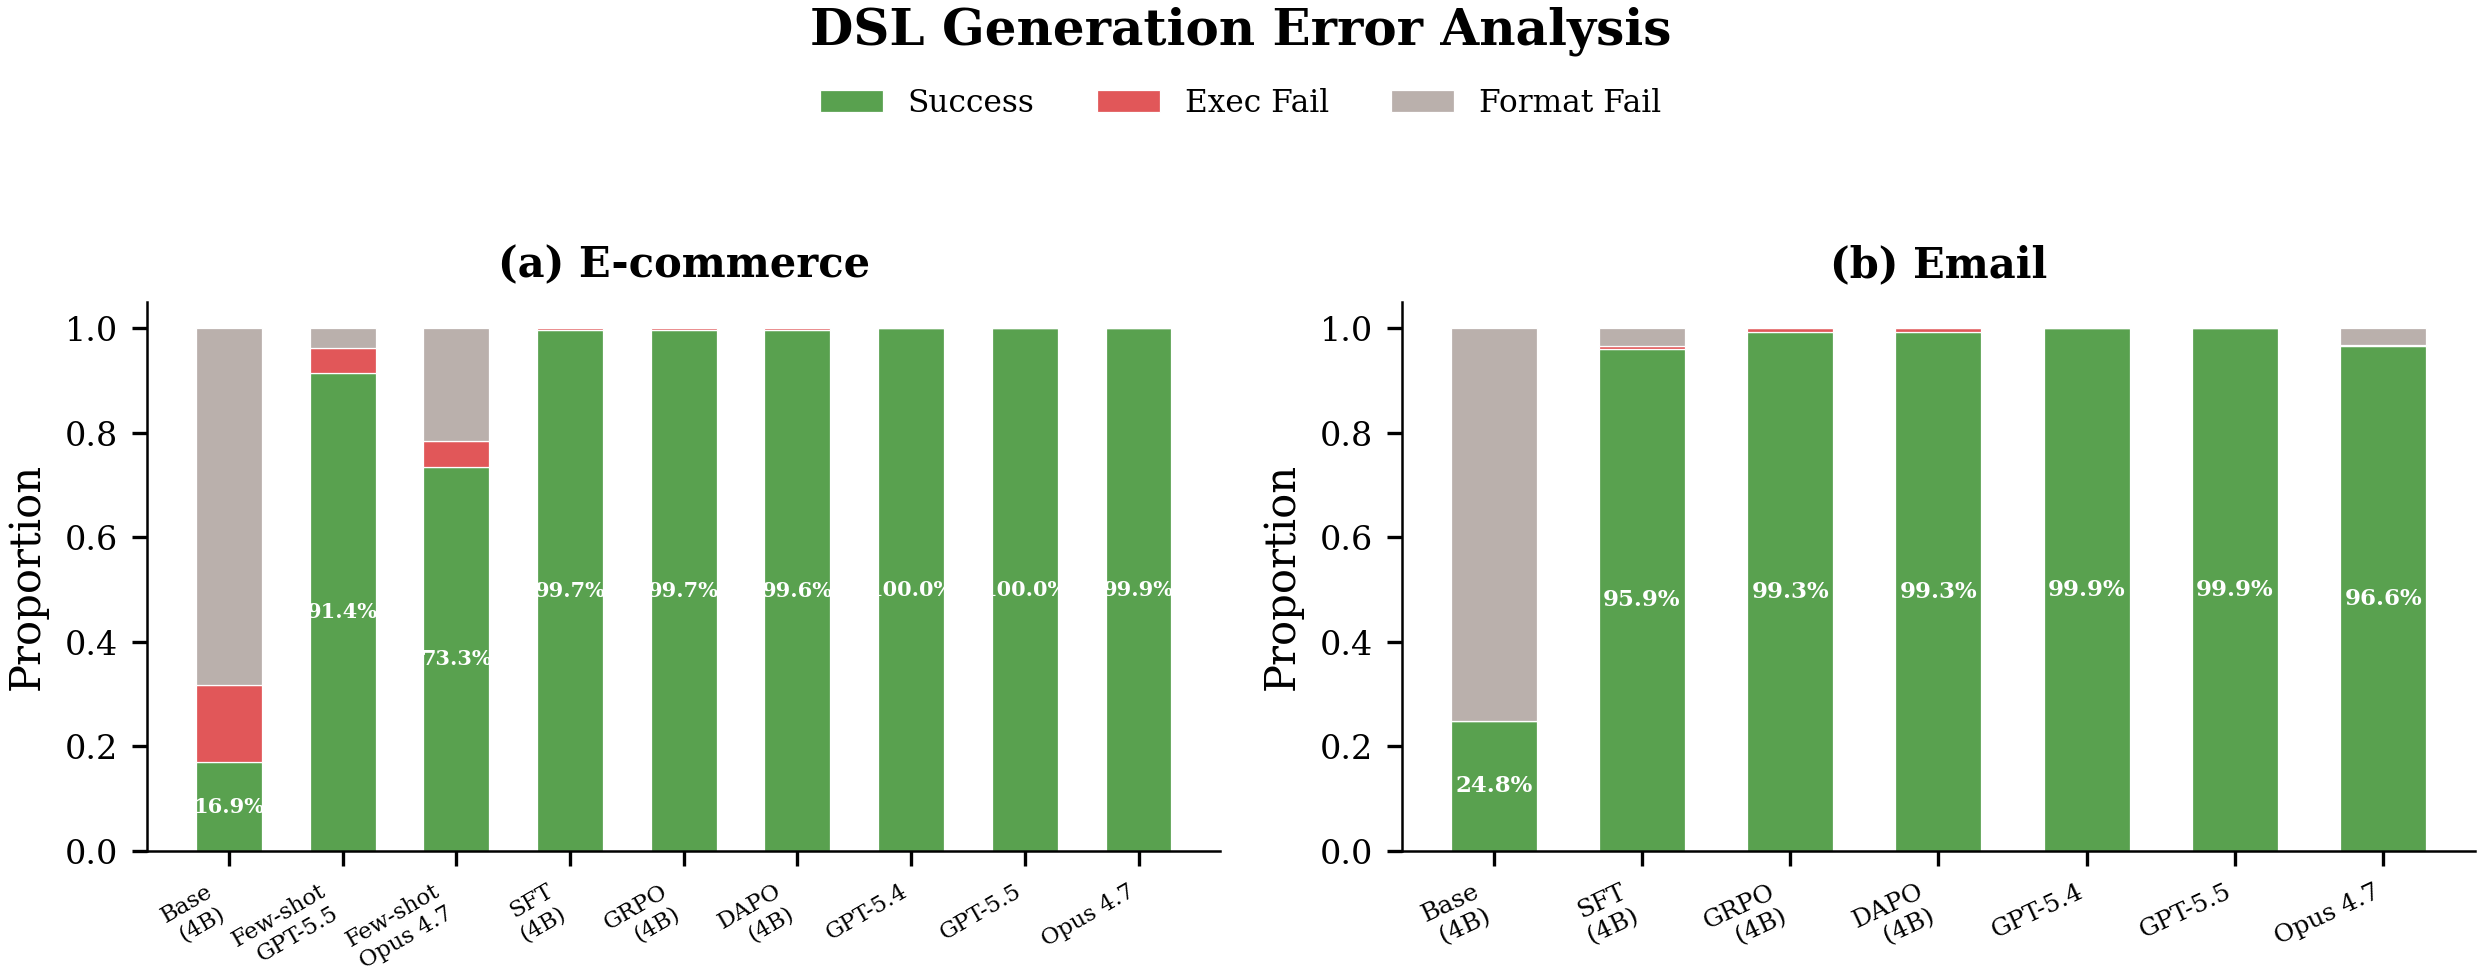
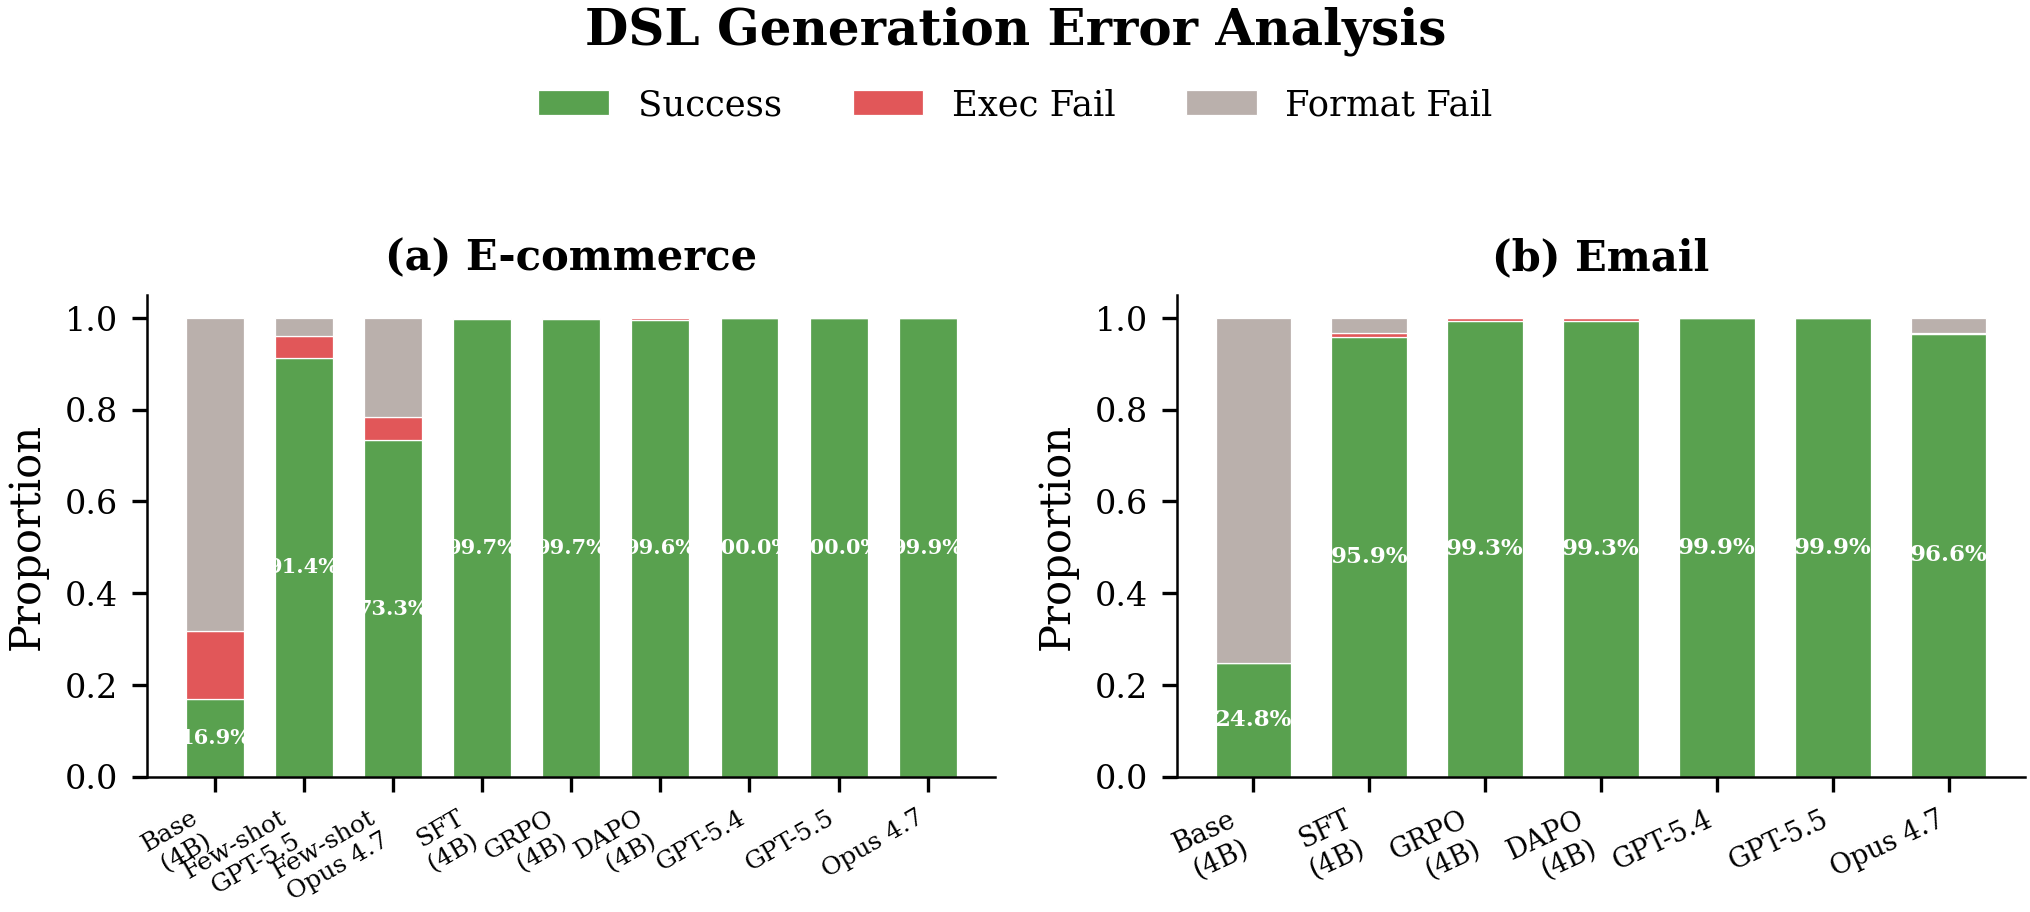
Increase Fig E9 error analysis font size and revert Fig5 paradigm comparison
- E9: axis labels +1pt, subtitles 9→10, suptitle 11→12, legend 7.5→8.5
- Keep bar percentage labels at original size to avoid clipping
- Revert paradigm comparison (Fig5) font sizes (was changed by mistake)

diff --git a/figures/paper/generate_all_figures.py b/figures/paper/generate_all_figures.py
@@ -697,7 +697,7 @@ def fig_e8_model_scaling():
 # Fig 12: E9 — Error Analysis (from 实验结果分析报告)
 # ═══════════════════════════════════════════════════════════════════════════════
 def fig_e9_error_analysis():
-    fig, (ax1, ax2) = plt.subplots(1, 2, figsize=(8.5, 3.0))
+    fig, (ax1, ax2) = plt.subplots(1, 2, figsize=(7.0, 2.8))
 
     c_success = '#59A14F'
     c_exec_fail = '#E15759'
@@ -714,17 +714,17 @@ def fig_e9_error_analysis():
     format_fail_ec = [(t-f)/t for t, f in zip(total_ec, format_ok_ec)]
 
     x = np.arange(len(methods_ec))
-    ax1.bar(x, success_ec, 0.58, label='Success', color=c_success, edgecolor='white', linewidth=0.3)
-    ax1.bar(x, exec_fail_ec, 0.58, bottom=success_ec, label='Exec Fail', color=c_exec_fail, edgecolor='white', linewidth=0.3)
+    ax1.bar(x, success_ec, 0.65, label='Success', color=c_success, edgecolor='white', linewidth=0.3)
+    ax1.bar(x, exec_fail_ec, 0.65, bottom=success_ec, label='Exec Fail', color=c_exec_fail, edgecolor='white', linewidth=0.3)
     bottom2 = [s+e for s, e in zip(success_ec, exec_fail_ec)]
-    ax1.bar(x, format_fail_ec, 0.58, bottom=bottom2, label='Format Fail', color=c_format_fail, edgecolor='white', linewidth=0.3)
+    ax1.bar(x, format_fail_ec, 0.65, bottom=bottom2, label='Format Fail', color=c_format_fail, edgecolor='white', linewidth=0.3)
 
     for i, s in enumerate(success_ec):
         ax1.text(i, s/2, f'{s:.1%}', ha='center', va='center', fontsize=5, fontweight='bold', color='white')
 
     ax1.set_ylabel('Proportion')
     ax1.set_xticks(x)
-    ax1.set_xticklabels(methods_ec, fontsize=5.5, rotation=30, ha='right')
+    ax1.set_xticklabels(methods_ec, fontsize=6, rotation=30, ha='right')
     ax1.set_ylim(0, 1.05)
     ax1.set_title('(a) E-commerce', fontsize=10, fontweight='bold')
 
@@ -739,23 +739,23 @@ def fig_e9_error_analysis():
     format_fail_em = [(t-f)/t for t, f in zip(total_em, format_ok_em)]
 
     x2 = np.arange(len(methods_em))
-    ax2.bar(x2, success_em, 0.58, label='Success', color=c_success, edgecolor='white', linewidth=0.3)
-    ax2.bar(x2, exec_fail_em, 0.58, bottom=success_em, label='Exec Fail', color=c_exec_fail, edgecolor='white', linewidth=0.3)
+    ax2.bar(x2, success_em, 0.65, label='Success', color=c_success, edgecolor='white', linewidth=0.3)
+    ax2.bar(x2, exec_fail_em, 0.65, bottom=success_em, label='Exec Fail', color=c_exec_fail, edgecolor='white', linewidth=0.3)
     bottom2e = [s+e for s, e in zip(success_em, exec_fail_em)]
-    ax2.bar(x2, format_fail_em, 0.58, bottom=bottom2e, label='Format Fail', color=c_format_fail, edgecolor='white', linewidth=0.3)
+    ax2.bar(x2, format_fail_em, 0.65, bottom=bottom2e, label='Format Fail', color=c_format_fail, edgecolor='white', linewidth=0.3)
 
     for i, s in enumerate(success_em):
         ax2.text(i, s/2, f'{s:.1%}', ha='center', va='center', fontsize=5.5, fontweight='bold', color='white')
 
     ax2.set_ylabel('Proportion')
     ax2.set_xticks(x2)
-    ax2.set_xticklabels(methods_em, fontsize=6, rotation=25, ha='right')
+    ax2.set_xticklabels(methods_em, fontsize=6.5, rotation=25, ha='right')
     ax2.set_ylim(0, 1.05)
     ax2.set_title('(b) Email', fontsize=10, fontweight='bold')
 
     handles, labels = ax1.get_legend_handles_labels()
     fig.legend(handles, labels, loc='upper center', bbox_to_anchor=(0.5, 1.06),
-               ncol=3, frameon=False, fontsize=7.5)
+               ncol=3, frameon=False, fontsize=8.5)
 
     fig.suptitle('DSL Generation Error Analysis', fontsize=12, fontweight='bold', y=1.12)
     fig.tight_layout()
